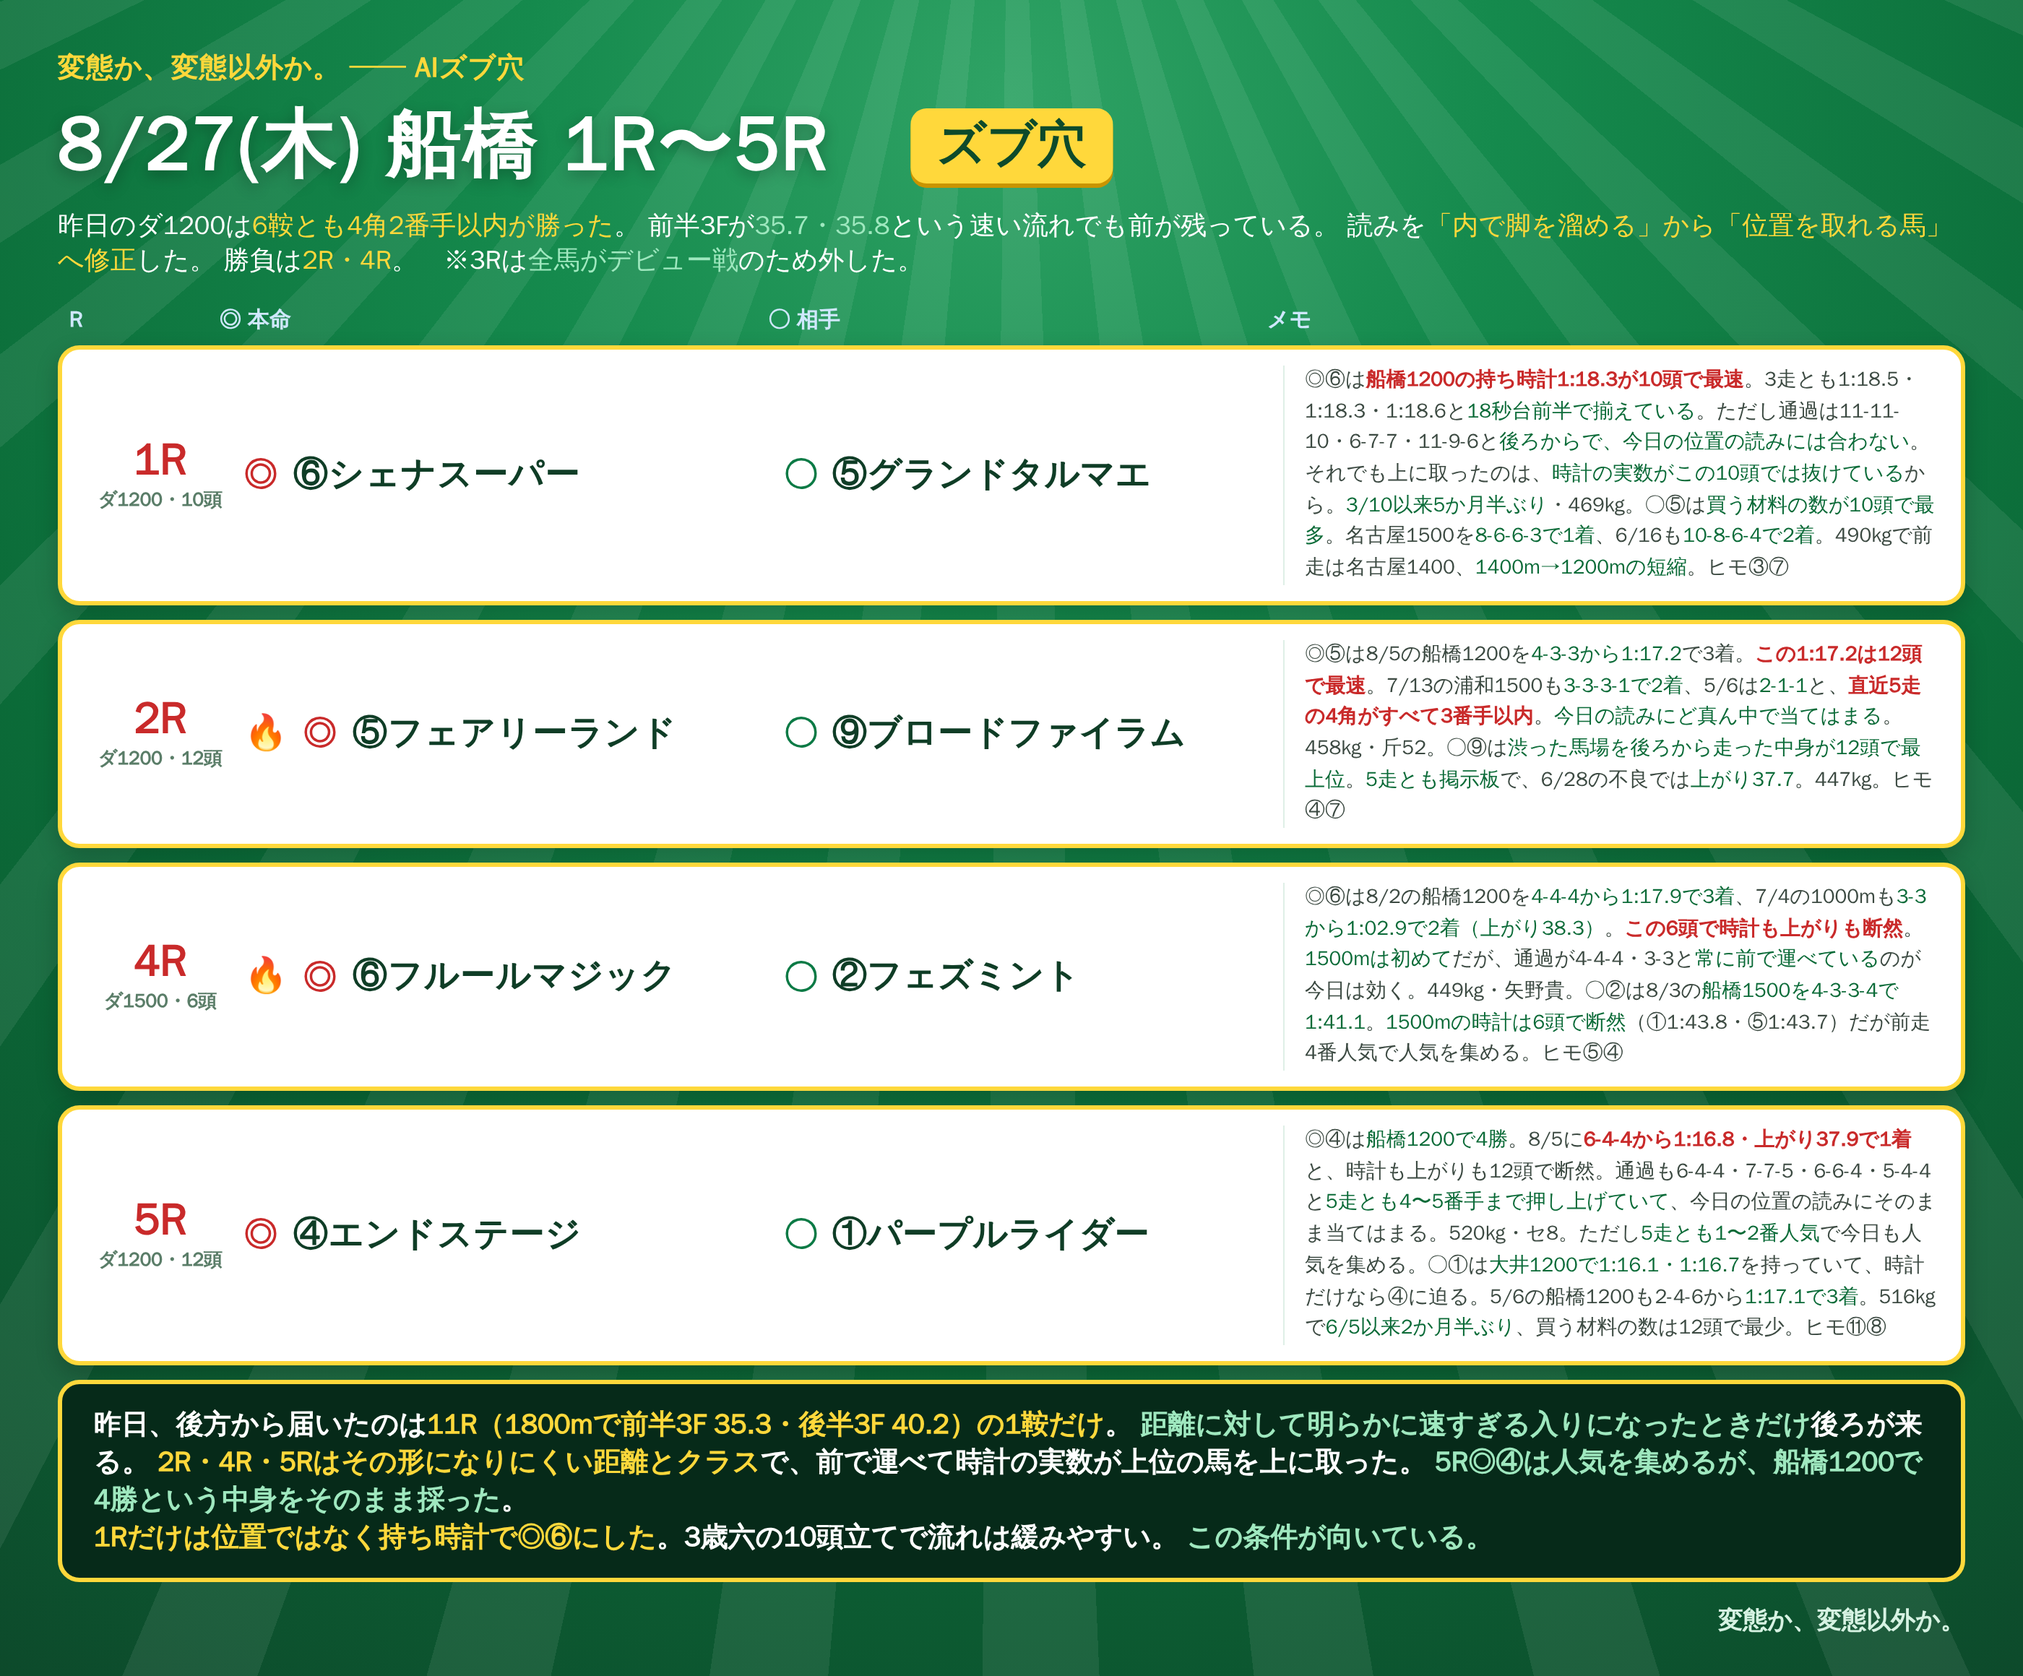
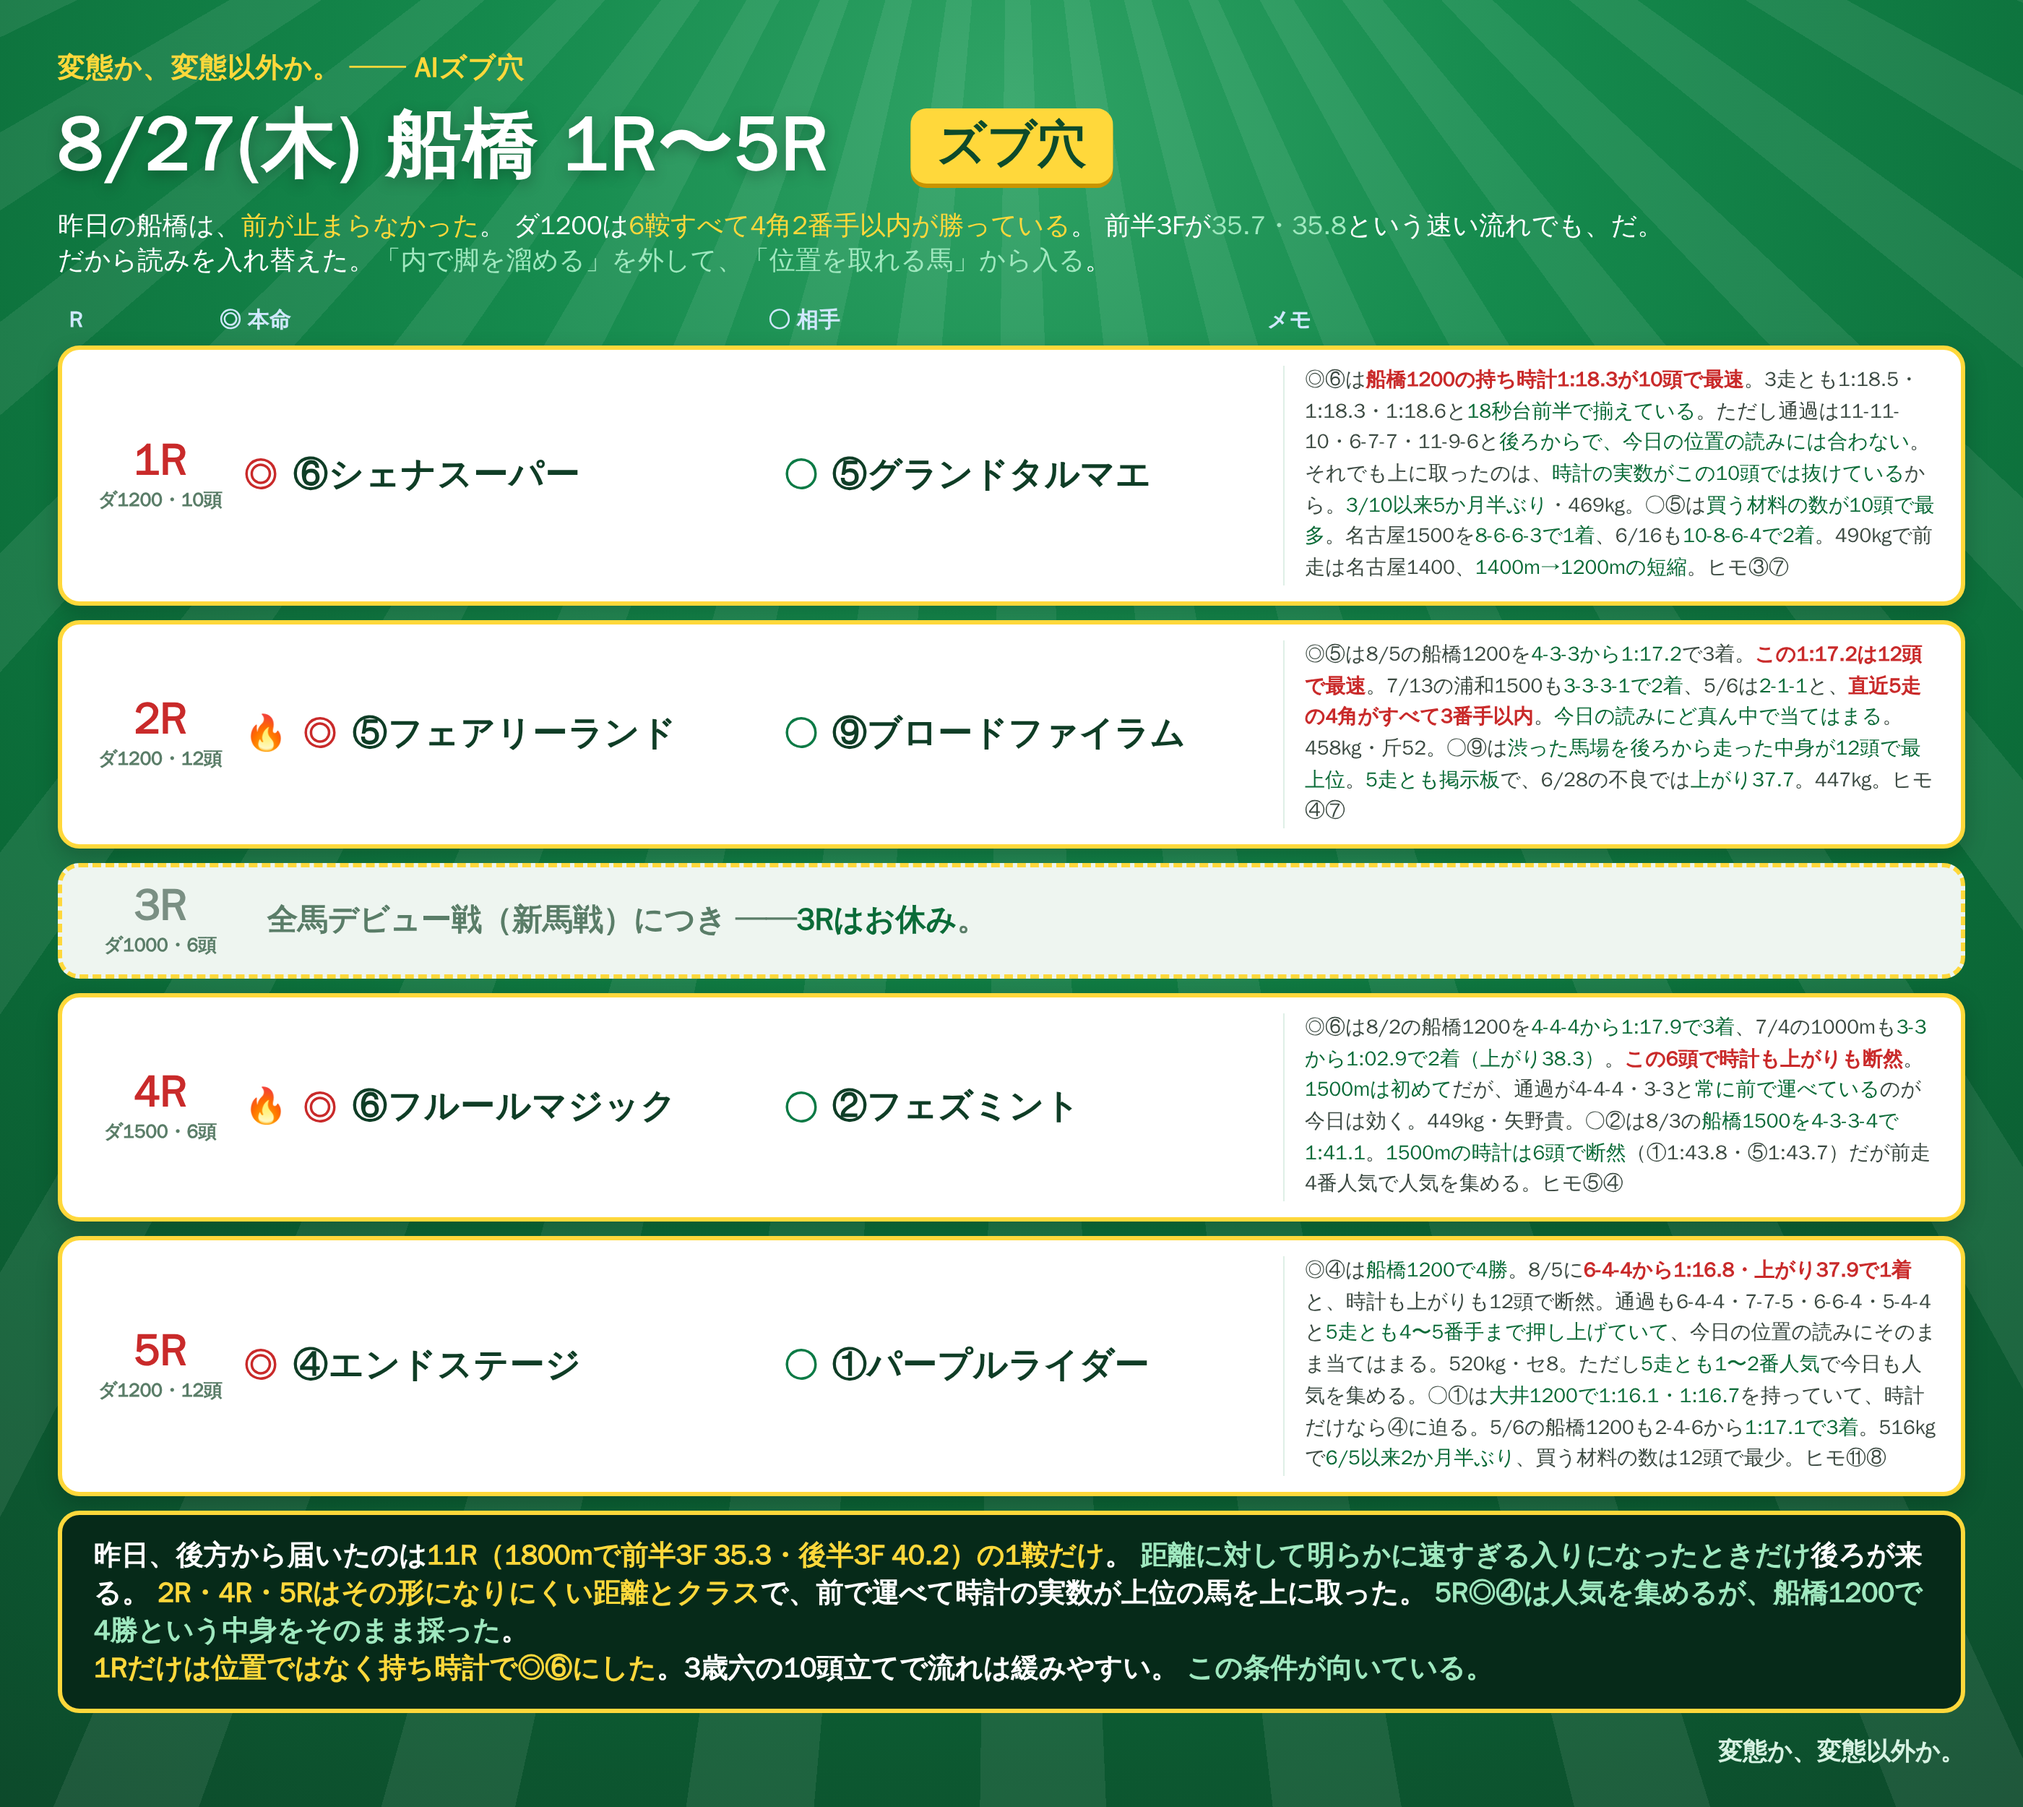
notes: 8/27 位置取り版に3Rお休み行を追加、リード文を書き直し

Changed region(s): [[0.0311, 0.031, 0.9943, 0.9931], [0.87, 0.1241, 0.9632, 0.1552]]

diff --git a/notes/live/2026-08-27/funabashi_1_5_manga_pos.html b/notes/live/2026-08-27/funabashi_1_5_manga_pos.html
@@ -79,7 +79,7 @@
 <body><div class="card"><div class="lines"></div><div class="tone"></div><div class="inner">
 <div class="kicker">変態か、変態以外か。 ── AIズブ穴</div>
 <div class="head"><div class="gekiga">ズブ穴</div><div class="dateblk"><div class="d1">8/27(木) 船橋</div><div class="d2">1R〜5R ／ 昨日の馬場感どおり「位置を取れる馬」で組んだ版</div></div><div class="burst"><span>南関<br>ズブ穴</span></div></div>
-<div class="lead">昨日のダ1200は<span class="r">6鞍とも4角2番手以内が勝った</span>。前半3Fが<span class="b">35.7・35.8</span>という速い流れでも前が残っている。読みを<span class="r">「内で脚を溜める」から「位置を取れる馬」へ修正</span>した。※3Rは全馬がデビュー戦のため外した。</div>
+<div class="lead">昨日の船橋は、<span class="r">前が止まらなかった</span>。ダ1200は<span class="r">6鞍すべて4角2番手以内が勝っている</span>。前半3Fが<span class="b">35.7・35.8</span>という速い流れでも、だ。<br>だから読みを入れ替えた。<span class="b">「内で脚を溜める」を外して、「位置を取れる馬」から入る</span>。</div>
 <div class="cols"><div class="cR">R</div><div class="cH">◎ 本命</div><div class="cA">○ 相手</div><div class="cM">メモ</div></div>
 
   <div class="row"><div class="corner"></div>
@@ -94,6 +94,12 @@
     <div class="hm"><div class="sb"><span>勝負</span></div><span class="mk">◎</span><span class="nm">⑤フェアリーランド</span></div>
     <div class="at"><span class="mk2">○</span><span class="nm2">⑨ブロードファイラム</span></div>
     <div class="memo">◎⑤は8/5の船橋1200を<b>4-3-3から1:17.2</b>で3着。<b class='r'>この1:17.2は12頭で最速</b>。7/13の浦和1500も<b>3-3-3-1で2着</b>、5/6は<b>2-1-1</b>と、<b class='r'>直近5走の4角がすべて3番手以内</b>。<b>今日の読みにど真ん中で当てはまる</b>。458kg・斤52。<br>○⑨は<b>渋った馬場を後ろから走った中身が12頭で最上位</b>。<b>5走とも掲示板</b>で、6/28の不良では<b>上がり37.7</b>。447kg。<br>ヒモ④ゲットデザイアー／⑦マッドリボンガール</div>
+  </div>
+
+  <div class="row" style="background:#e7e7e7;"><div class="corner"></div>
+    <div class="rN"><div class="n">3R</div><div class="d">ダ1000・6頭</div></div>
+    <div style="flex:1;display:flex;align-items:center;padding-left:26px;color:#111;font-size:27px;font-weight:900;">
+      全馬デビュー戦につき ── 3Rはお休み。</div>
   </div>
 
   <div class="row"><div class="corner"></div>

diff --git a/notes/live/2026-08-27/funabashi_1_5.html b/notes/live/2026-08-27/funabashi_1_5.html
@@ -48,10 +48,10 @@
     <div class="title">8/27(木) 船橋 1R〜5R</div>
     <div class="bdg">ズブ穴</div>
   </div>
-  <div class="lead">昨日のダ1200は<span class="y">6鞍とも4角2番手以内が勝った</span>。
-  前半3Fが<span class="c">35.7・35.8</span>という速い流れでも前が残っている。
-  読みを<span class="y">「内で脚を溜める」から「位置を取れる馬」へ修正</span>した。
-  勝負は<span class="y">2R・4R</span>。　※3Rは<span class="c">全馬がデビュー戦</span>のため外した。</div>
+  <div class="lead">昨日の船橋は、<span class="y">前が止まらなかった</span>。
+  ダ1200は<span class="y">6鞍すべて4角2番手以内が勝っている</span>。
+  前半3Fが<span class="c">35.7・35.8</span>という速い流れでも、だ。<br>
+  だから読みを入れ替えた。<span class="c">「内で脚を溜める」を外して、「位置を取れる馬」から入る</span>。</div>
 
   <div class="cols"><div class="cR">R</div><div class="cH">◎ 本命</div><div class="cA">○ 相手</div><div class="cM">メモ</div></div>
 
@@ -67,6 +67,12 @@
     <div class="hm"><span class="fire">🔥</span><span class="mk">◎</span><span class="nm">⑤フェアリーランド</span></div>
     <div class="at"><span class="mk2">○</span><span class="nm2">⑨ブロードファイラム</span></div>
     <div class="memo">◎⑤は8/5の船橋1200を<b>4-3-3から1:17.2</b>で3着。<b class='r'>この1:17.2は12頭で最速</b>。7/13の浦和1500も<b>3-3-3-1で2着</b>、5/6は<b>2-1-1</b>と、<b class='r'>直近5走の4角がすべて3番手以内</b>。<b>今日の読みにど真ん中で当てはまる</b>。458kg・斤52。○⑨は<b>渋った馬場を後ろから走った中身が12頭で最上位</b>。<b>5走とも掲示板</b>で、6/28の不良では<b>上がり37.7</b>。447kg。ヒモ④⑦</div>
+  </div>
+
+  <div class="row" style="background:#eef5f0;border-style:dashed;box-shadow:none;">
+    <div class="rN"><div class="n" style="color:#7a8f83">3R</div><div class="d">ダ1000・6頭</div></div>
+    <div style="flex:1;display:flex;align-items:center;padding-left:22px;color:#5a7d68;font-size:21px;font-weight:900;">
+      全馬デビュー戦（新馬戦）につき ── <span style="color:#0b6b38;">3Rはお休み</span>。</div>
   </div>
 
   <div class="row">

diff --git a/notes/live/2026-08-27/README.md b/notes/live/2026-08-27/README.md
@@ -249,3 +249,37 @@
 **大井1200で1:16.1・1:16.7** を持っていて、時計だけなら◎④に迫る。
 ただし **6/5以来2か月半ぶり**、**買う材料の数は12頭で最少（エッジ0・渋った馬場の中身0）**。
 数字の裏付けは持ち時計だけ、という馬。
+
+## 3Rお休み行の追加とリード文の書き直し
+
+`funabashi_1_5.png`（緑）と `funabashi_1_5_manga_pos.png`（劇画）の両方に反映。
+
+### 3Rを行として表に入れた
+
+これまで「※3Rは全馬がデビュー戦のため外した」とリードに1行入れるだけだったのを、
+**2Rと4Rのあいだに専用の行を置いた**。1R→2R→3R→4R→5Rと番号が飛ばずに並ぶので、
+読み手が「3Rは抜けているのか、それとも見落としか」と迷わない。
+
+| 版 | 見た目 |
+|---|---|
+| 緑 | 薄緑地・破線枠・影なし。R番号もグレーに落とす |
+| 劇画 | グレー地のコマ。枠と網点は他の行と同じ |
+
+文言は「全馬デビュー戦（新馬戦）につき ── **3Rはお休み**。」
+
+実装は `ROWS` に `("3R","ダ1000・6頭","REST","","","")` を挟み、
+ループの先頭で `fire == 'REST'` を分岐させて別テンプレートを書き出す形にした。
+
+### リード文（声明文）を書き直した
+
+**前**
+> 昨日のダ1200は6鞍とも4角2番手以内が勝った。前半3Fが35.7・35.8という速い流れでも前が残っている。
+> 読みを「内で脚を溜める」から「位置を取れる馬」へ修正した。勝負は2R・4R。※3Rは全馬がデビュー戦のため外した。
+
+**後**
+> 昨日の船橋は、**前が止まらなかった**。ダ1200は**6鞍すべて4角2番手以内が勝っている**。
+> 前半3Fが35.7・35.8という速い流れでも、だ。
+> だから読みを入れ替えた。**「内で脚を溜める」を外して、「位置を取れる馬」から入る**。
+
+事実（6鞍・35.7/35.8）はそのまま残し、文を短く切って言い切る形にした。
+3Rの注記はリードから外して行に移した。
